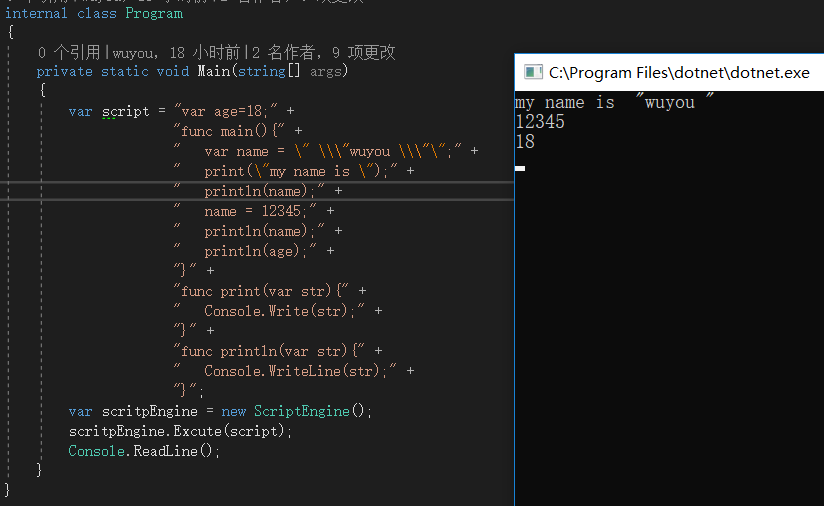
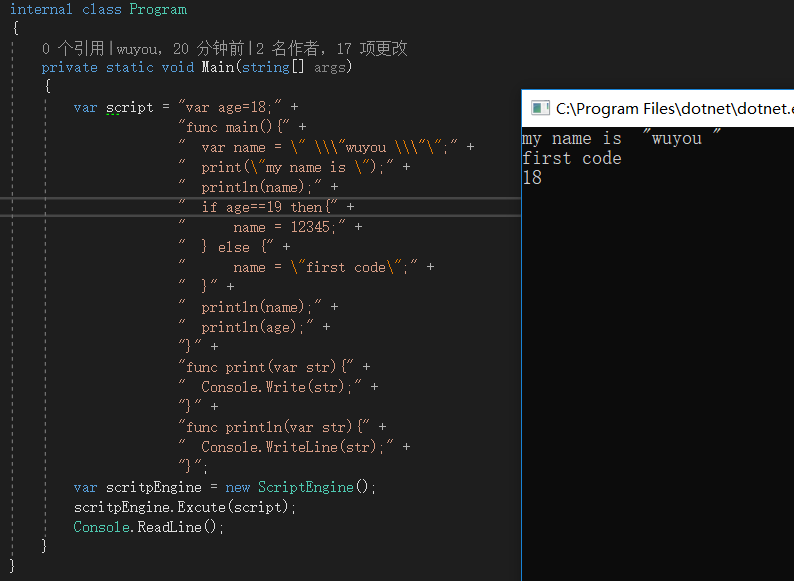
改进预览图

diff --git a/ConsoleApp/Program.cs b/ConsoleApp/Program.cs
@@ -12,7 +12,7 @@ namespace ConsoleApp
                          "  var name = \" \\\"wuyou \\\"\";" +
                          "  print(\"my name is \");" +
                          "  println(name);" +
-                         "  if age==18 then{" +
+                         "  if age==19 then{" +
                          "      name = 12345;" +
                          "  } else {" +
                          "      name = \"first code\";" +

diff --git a/CoreScript/Script/ScriptFunction.cs b/CoreScript/Script/ScriptFunction.cs
@@ -29,8 +29,7 @@ namespace CoreScript.Script
         public object Excute(VariableStack stack, IList<ScriptValue> args = null)
         {
             if ((args?.Count ?? 0) != _token.Parameters.Variables.Count) throw new Exception("函数调用缺少参数");
-
-
+            
             var index = 0;
             foreach (var variableDefine in _token.Parameters.Variables)
             {
